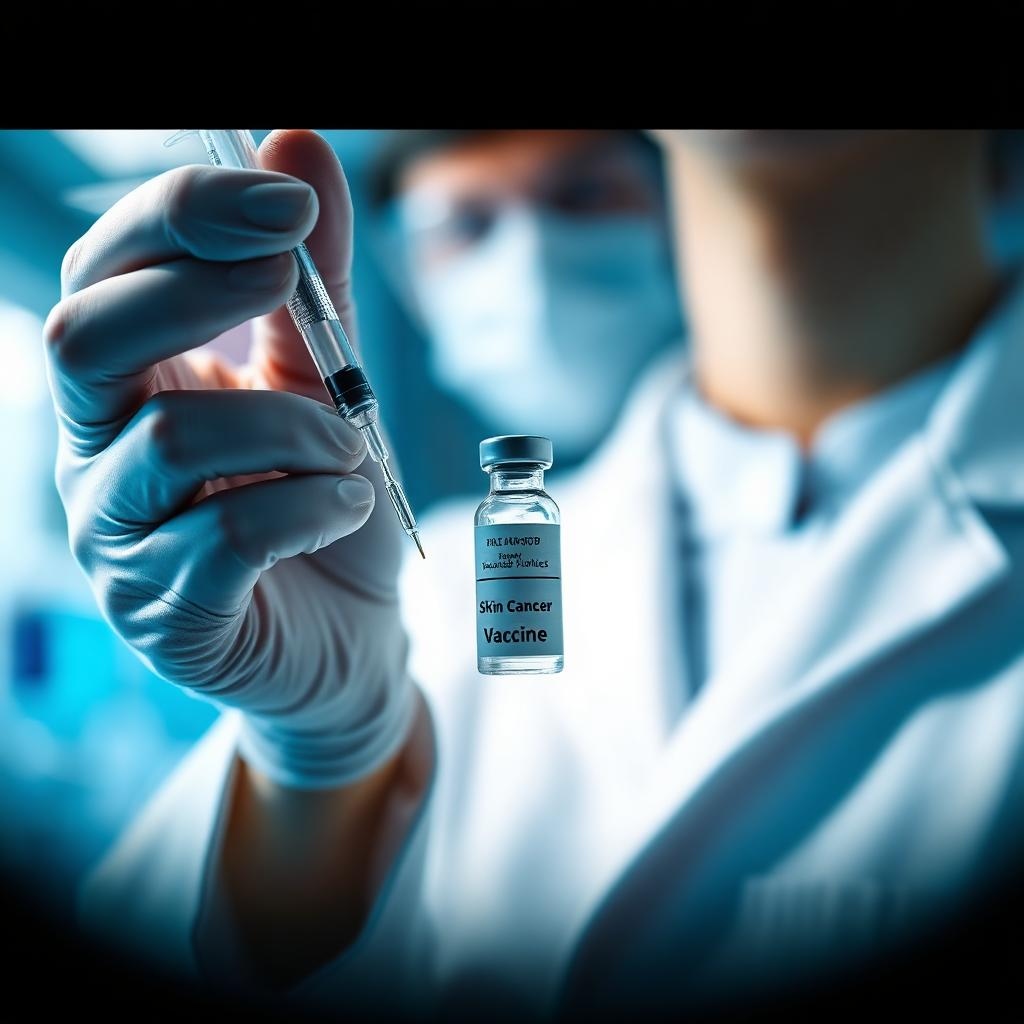
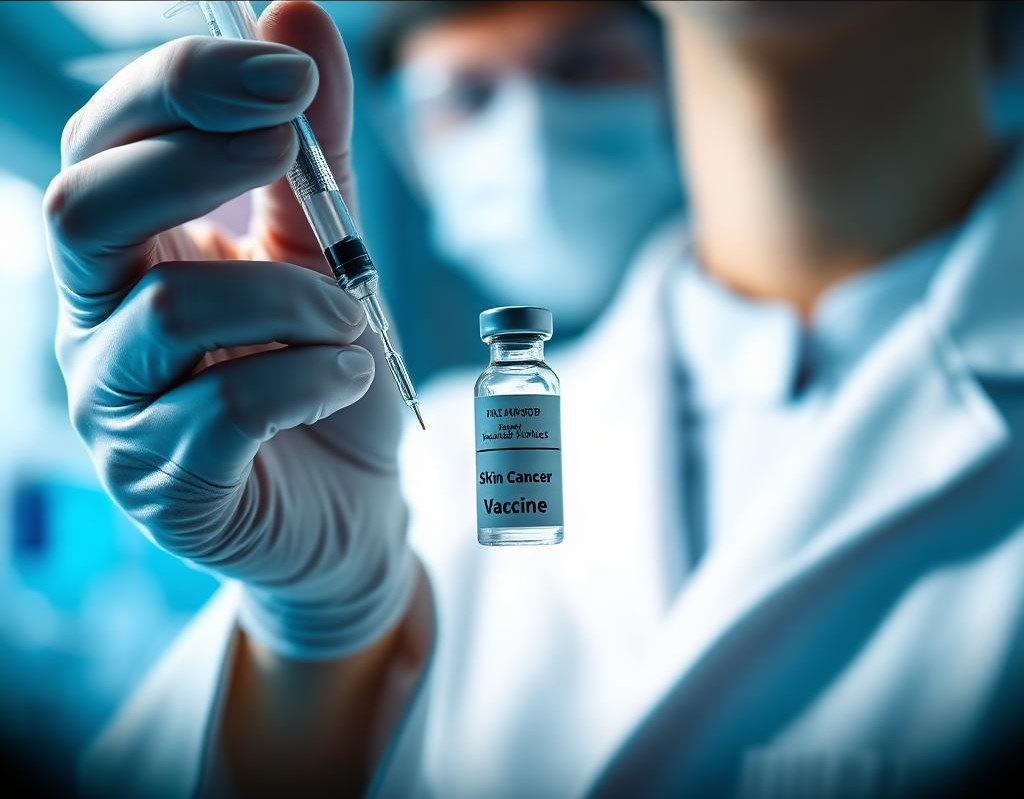
Enhance PhoneStory component with responsive scaling and layout adjustments
- Introduced a reference width for scenes to maintain proportions on desktop.
- Implemented a dynamic scaling feature based on viewport size for better adaptability.
- Updated layout styles for improved responsiveness across devices.
- Replaced fixed pixel sizes with scalable units to enhance visual consistency.

diff --git a/src/components/play-landing/PhoneStory.tsx b/src/components/play-landing/PhoneStory.tsx
@@ -11,6 +11,11 @@ import { CARDS, Card, type MarketCard } from "./MarketMosaic";
 
 const SCENES = [6000, 5400, 6200];
 
+/* Logical width the scenes are laid out against on desktop. The screen is
+   scaled to it, so the card, the fighters and the type keep their proportions
+   instead of staying pixel-fixed while the phone shrinks with the viewport. */
+const PHONE_REF_W = 434;
+
 const STORY_TITLES = [
   "Where will Enzo Fernandez transfer?",
   "Pro Football: 2027 Champion",
@@ -207,6 +212,26 @@ export function PhoneStory({ className }: { className?: string }) {
     if (!running) setScene(0);
   }, [running]);
 
+  /* Desktop only: the shell is sized off the viewport height, so match the
+     scenes to it rather than leaving them at fixed pixel sizes inside a phone
+     that keeps changing size. On mobile the scale stays 1 (1:1 layout). */
+  const screenRef = useRef<HTMLDivElement>(null);
+  const [scale, setScale] = useState(1);
+  useEffect(() => {
+    const el = screenRef.current;
+    if (!el) return;
+    const mq = window.matchMedia("(min-width: 640px)");
+    const measure = () => setScale(mq.matches ? el.clientWidth / PHONE_REF_W : 1);
+    measure();
+    const ro = new ResizeObserver(measure);
+    ro.observe(el);
+    mq.addEventListener("change", measure);
+    return () => {
+      ro.disconnect();
+      mq.removeEventListener("change", measure);
+    };
+  }, []);
+
   /* Duel and podium scenes advance on their own after their SCENES duration;
      the forecast scene (0) drives itself and calls `next` when its cards are done. */
   useEffect(() => {
@@ -216,31 +241,45 @@ export function PhoneStory({ className }: { className?: string }) {
   }, [scene, running, next]);
 
   return (
-    <div ref={rootRef} className={`relative mx-auto -mt-6 w-[min(340px,88vw)] shrink-0 sm:mt-0 sm:w-[clamp(197px,calc((100svh_-_21rem)*0.547),372px)] ${className ?? ""}`}>
+    <div ref={rootRef} className={`relative mx-auto -mt-6 w-[min(340px,88vw)] shrink-0 sm:mt-0 sm:w-[clamp(197px,calc((100svh_-_19rem)*0.547),405px)] ${className ?? ""}`}>
       <div
         aria-hidden="true"
         className="pointer-events-none absolute -inset-8 rounded-[3.5rem] bg-[radial-gradient(circle_at_50%_30%,rgba(236,72,153,0.35),rgba(99,102,241,0.18)_55%,transparent_75%)] blur-2xl"
       />
       <div className="relative rounded-[2.75rem] border border-white/20 bg-[#05060F] p-2.5 shadow-[0_40px_90px_-30px_rgba(0,0,0,0.9)]">
-        <div className="relative h-[430px] overflow-hidden sm:h-[clamp(360px,calc(100svh_-_21rem),680px)] rounded-[2.25rem] bg-[#070818]">
+        <div
+          ref={screenRef}
+          className="relative h-[430px] overflow-hidden sm:h-[clamp(360px,calc(100svh_-_19rem),740px)] rounded-[2.25rem] bg-[#070818]"
+        >
           <div aria-hidden="true" className="tactical-grid" />
           <div aria-hidden="true" className="tactical-top-line" />
           <div className="absolute left-1/2 top-2.5 z-20 h-4 w-20 -translate-x-1/2 rounded-full bg-black/85" />
 
-          <AnimatePresence mode="wait">
-            <motion.div
-              key={scene}
-              initial={{ opacity: 0, scale: 0.98 }}
-              animate={{ opacity: 1, scale: 1 }}
-              exit={{ opacity: 0, scale: 1.01 }}
-              transition={{ duration: 0.35 }}
-              className="absolute inset-0 pt-9 pb-7"
-            >
-              {scene === 0 ? <SceneMarkets onDone={next} running={running} /> : null}
-              {scene === 1 ? <SceneDuel /> : null}
-              {scene === 2 ? <ScenePodium /> : null}
-            </motion.div>
-          </AnimatePresence>
+          {/* 100/scale% resolves to exactly PHONE_REF_W on desktop and to the
+              plain 100% × 100% box on mobile, where the scale is 1. */}
+          <div
+            className="absolute left-0 top-0 origin-top-left"
+            style={{
+              width: `${100 / scale}%`,
+              height: `${100 / scale}%`,
+              transform: `scale(${scale})`,
+            }}
+          >
+            <AnimatePresence mode="wait">
+              <motion.div
+                key={scene}
+                initial={{ opacity: 0, scale: 0.98 }}
+                animate={{ opacity: 1, scale: 1 }}
+                exit={{ opacity: 0, scale: 1.01 }}
+                transition={{ duration: 0.35 }}
+                className="absolute inset-0 pt-9 pb-7"
+              >
+                {scene === 0 ? <SceneMarkets onDone={next} running={running} /> : null}
+                {scene === 1 ? <SceneDuel /> : null}
+                {scene === 2 ? <ScenePodium /> : null}
+              </motion.div>
+            </AnimatePresence>
+          </div>
 
 
           <div className="absolute inset-x-0 bottom-3.5 z-20 flex justify-center gap-1.5">
